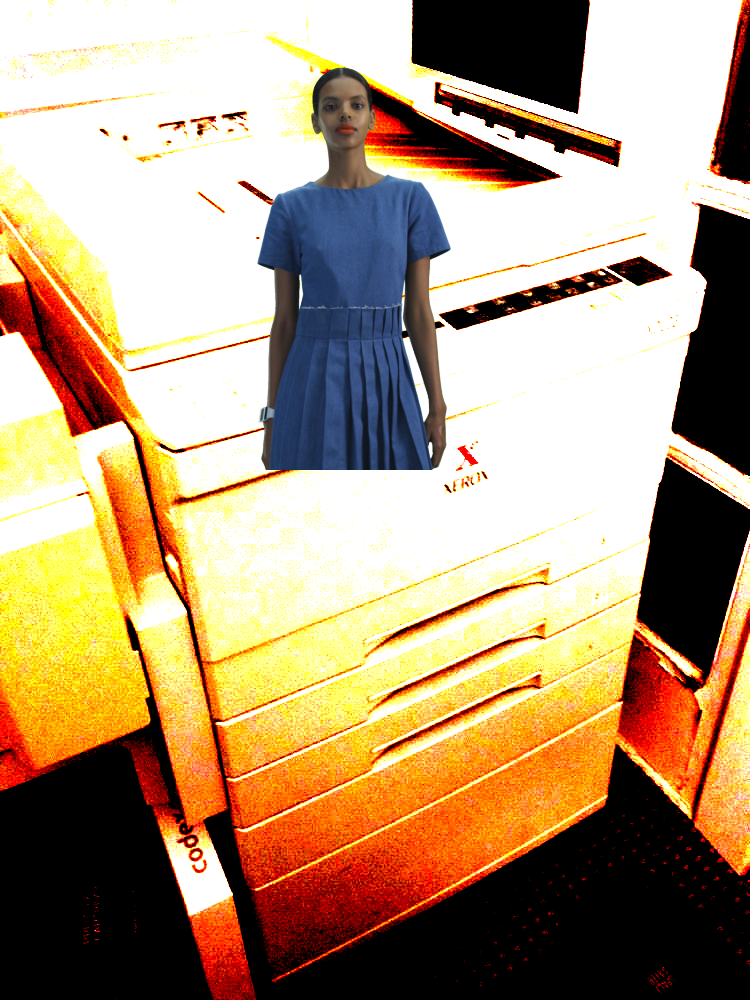
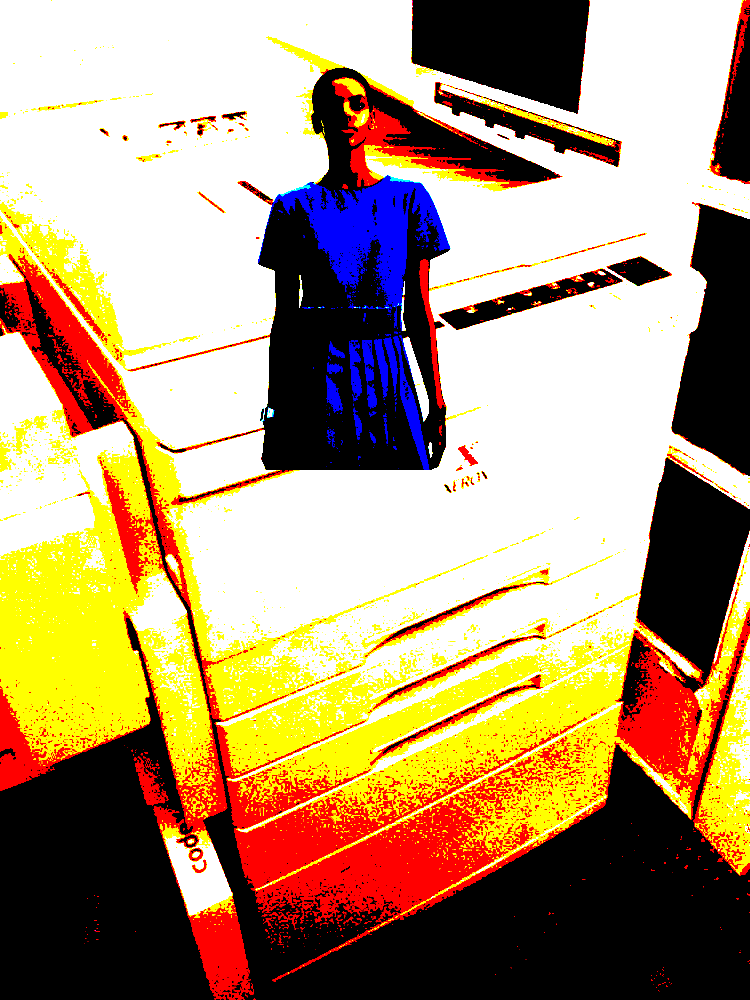
CSS attempt bunked, back to pixelData manipulation
- pixel data in canvas seems to have an issue where array is always
passed by reference—basically means sliding filter around constantly
builds upon itself to a steady state. will need to figure out . May
need to figure out a way of hard copying pixel data or make secondary
canvas for everything in order to be able to sample constantly same
pixel canvas

diff --git a/Photocopier/public/js/main.js b/Photocopier/public/js/main.js
@@ -7,6 +7,8 @@ var hiddencontext = hiddencanvas.getContext('2d');
 var imageObj = new Image();
 var saveObj = new Image();
 var compositeObj = new Image();
+var compositeSaveObj = new Image();
+var imageData;
 var saveImageData;
 var pollTimer1, pollTimer2;
 var clear = false;
@@ -17,23 +19,21 @@ compositeObj.src = "img/sequence01.png";
 
 imageObj.onload = function() {
 
-	canvas.style.webkitFilter = 'contrast(40)';
-  	canvas.style.filter = 'contrast(40)';
-
 	/* image preview */
 	context.drawImage(imageObj, 0, 0);
 	hiddencanvas.width = imageObj.width;
 	hiddencanvas.height = imageObj.height;
 	hiddencontext.drawImage(imageObj, 0, 0);
 	
-	imageData = context.getImageData(0,0,imageObj.width, imageObj.height);
-	saveImageData = hiddencontext.getImageData(0,0, imageObj.width, imageObj.height);
+	// imageData = context.getImageData(0,0,imageObj.width, imageObj.height);
+	// saveImageData = hiddencontext.getImageData(0,0, imageObj.width, imageObj.height);
 	saveObj.width = imageObj.width;
 	saveObj.height = imageObj.height;
 
 	console.log("image loaded!");
 
 	// show elements
+	document.getElementById('controls').style.display = 'none';
 	document.getElementById('previewCanvas').style.display = 'block';
 	document.getElementById('moderation-action').style.display = 'block';
 	document.getElementById('image-submit').style.display = 'none';
@@ -48,41 +48,52 @@ acceptButton.addEventListener('click', function (e) {
 
 	// performing a negative filter
 	// negativeFilter(imageData.data);
-	// contrastImage(imageData.data, 200);
-    // context.putImageData(imageData, 0, 0);
+	
 
-    cssContrast(100);
+    
 
 	// composite the image
 	context.globalCompositeOperation = "source-over";
 	// context.globalCompositeOperation = "destination-over";
 	context.drawImage(compositeObj,-100,-10);
-
-	cssContrast(100);
+	// cssContrast(canvas, 50);
+	imageData = context.getImageData(0,0,canvas.width, canvas.height);
+	
+	var contrastedImg = contrastImage(imageData, 125);
+    context.putImageData(contrastedImg, 0, 0);
     // full size image save 
 
 	// performing a negative filter
 	// negativeFilter(saveImageData.data);
-	contrastImage(saveImageData.data, 200);
-    hiddencontext.putImageData(saveImageData, 0, 0);
+	
 
     hiddencontext.globalCompositeOperation = "source-over";
 	hiddencontext.drawImage(compositeObj,-100,-10);
+	// cssContrast(hiddencanvas, 50);
+	saveImageData = hiddencontext.getImageData(0,0, imageObj.width, imageObj.height);
+	
+	var contrastedSave = contrastImage(saveImageData, 125);
+    hiddencontext.putImageData(contrastedSave, 0, 0);
 
-    // var uri = hiddencanvas.toDataURL("image/jpeg");
-
-	// saveObj.src = uri;
 	console.log('processed!');
 
+	document.getElementById('controls').style.display = 'block';
     document.getElementById('moderation-action').style.display = 'none';
     document.getElementById('image-submit').style.display = 'block';
 
 });
 
-// slider bar
+// slider bar to apply filters
 function showValue(newValue)
 {
+	console.log("changed slider!");
 	document.getElementById("range").innerHTML=newValue;
+	// cssContrast(canvas, newValue);
+	// cssContrast(hiddencanvas, newValue);
+	var contrastedImg = contrastImage(imageData, newValue);
+    context.putImageData(contrastedImg, 0, 0);
+	var contrastedSave = contrastImage(saveImageData, newValue);
+    hiddencontext.putImageData(contrastedSave, 0, 0);
 }
 
 // rejected behavior
@@ -156,6 +167,10 @@ function requestNext(data){
 
 	if(data.photoName !== undefined && data.photoName !== null){
     	nameOfPhoto = data.photoName.name;
+    	canvas.style.webkitFilter = 'none';
+  		canvas.style.filter = 'none';
+  		hiddencanvas.style.webkitFilter = 'none';
+  		hiddencanvas.style.filter = 'none';
         context.clearRect(0, 0, canvas.width, canvas.height);
         hiddencontext.clearRect(0, 0, hiddencanvas.width, hiddencanvas.height);
 
@@ -183,6 +198,10 @@ function requestNext(data){
 		        console.log(data);
 		        if(data.photoName !== undefined && data.photoName !== null){
 		        	nameOfPhoto = data.photoName.name;
+		        	canvas.style.webkitFilter = 'none';
+			  		canvas.style.filter = 'none';
+			  		hiddencanvas.style.webkitFilter = 'none';
+			  		hiddencanvas.style.filter = 'none';
 			        context.clearRect(0, 0, canvas.width, canvas.height);
 			        hiddencontext.clearRect(0, 0, hiddencanvas.width, hiddencanvas.height);
 

diff --git a/Photocopier/public/js/filters.js b/Photocopier/public/js/filters.js
@@ -16,23 +16,28 @@ function negativeFilter(pixelData){
 
 function contrastImage(pixelData, contrast) {
 
-    // var data = imageData.data;
+    console.log("contrast to");
+    console.log(contrast);
+    var tempData = pixelData;
     var factor = (259 * (contrast + 255)) / (255 * (259 - contrast));
 
-    for(var i=0;i<pixelData.length;i+=4)
+    for(var i=0;i<tempData.data.length;i+=4)
     {
-        pixelData[i] = factor * (pixelData[i] - 128) + 128;
-        pixelData[i+1] = factor * (pixelData[i+1] - 128) + 128;
-        pixelData[i+2] = factor * (pixelData[i+2] - 128) + 128;
+        tempData.data[i] = factor * (tempData.data[i] - 128) + 128;
+        tempData.data[i+1] = factor * (tempData.data[i+1] - 128) + 128;
+        tempData.data[i+2] = factor * (tempData.data[i+2] - 128) + 128;
     }
-    return imageData;
+    return tempData;
 }
 
-function cssContrast(contrast) {
+function cssContrast(canvasi, contrast) {
 
   console.log("css contrast");
-  canvas.style.webkitFilter = 'blur(3px)';
-  canvas.style.filter = 'blur(3px)';
+
+  var contrast_arg = 'contrast('+contrast+')';
+  console.log(contrast_arg);
+  canvasi.style.webkitFilter = contrast_arg;
+  canvasi.style.filter = contrast_arg;
 
 }
 

diff --git a/Photocopier/routes.js b/Photocopier/routes.js
@@ -112,6 +112,12 @@ module.exports = function(app){
 					// res.redirect('../');
 
 					console.log("user update");
+
+					// rename file into rejected folder
+					// fs.rename(savePath[debug]+'modified_'+photoName, savePath[debug]+'finalized_'+photoName, function (err) {
+					//   	if (err) throw err;
+					//   	console.log('finalized!');
+					//   });
 					// ajax response
 					// Find all photos
 					photos.find({}, function(err, all_photos){

diff --git a/Photocopier/views/home.html b/Photocopier/views/home.html
@@ -25,8 +25,8 @@
 			</form>
 		</div>
 		<div id="controls">
-			<input type="range" min="0" max="255" value="0" step="5" onchange="showValue(this.value)" />
-			<span id="range">0</span>
+			<input type="range" min="1" max="255" value="5" step="1" onchange="showValue(this.value)" />
+			<span id="range">125</span>
 		</div>
 		<div id="image-submit">
 			<form action="./saveProcessed" id="data-submit" name="data-submit" method="post"/>

diff --git a/Photocopier/views/layouts/main.html b/Photocopier/views/layouts/main.html
@@ -7,7 +7,7 @@
 
 		<meta name="viewport" content="width=device-width, initial-scale=1" />
 
-		<link href="http://fonts.googleapis.com/css?family=Open+Sans:300,700" rel="stylesheet" />
+		<!-- <link href="http://fonts.googleapis.com/css?family=Open+Sans:300,700" rel="stylesheet" /> -->
 		<link href="css/styles.css" rel="stylesheet" />
 
 	</head>

diff --git a/Photocopier/public/css/styles.css b/Photocopier/public/css/styles.css
@@ -123,12 +123,14 @@ nav a.active{
 	display:block;
 	margin:10px auto;
 	border-radius: 3px;
-	-webkit-filter: contrast(40);
-  	filter: contrast(40);
+	-webkit-filter: none;
+  	filter: none;
 }
 
 #hiddenCanvas{
 	display: none;
+	-webkit-filter: none;
+  	filter: none;
 }
 
 #wrapper {
